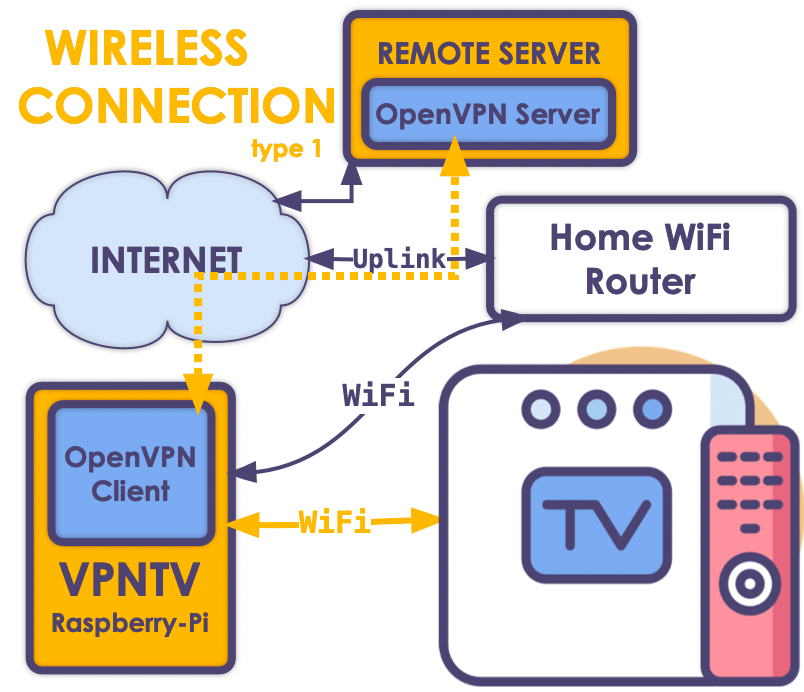
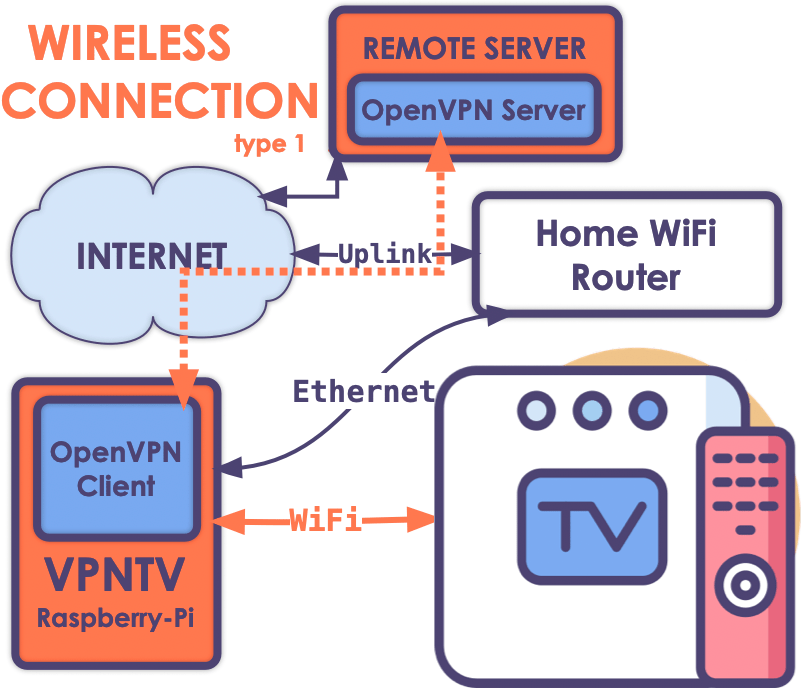
Wired connection types swap

diff --git a/README.md b/README.md
@@ -47,14 +47,15 @@ At the moment project supports Wireless connections(both types), Wired connectio
          </summary>
 
          * **ovpnclient_enable** - enable/disable OpenVPN client service. You need to have OpenVPN client configuration file in `client-ovpn` directory (see next installation step).
-  
+         
+         * **ethernet2wifi_enable** - enable/disable TV over WiFi connection, while VPNTV connected by Ethernet cable to your home Router. You need to configure here WiFi network name and password of new AP which will be up on vpntv. Prefferable setup. Can't be used with other connection options at the same time.
+
          * **wifi2wifi_enable** - enable/disable VT over WiFi connection. VPNTV connects to your home WiFi network and create new WiFi network for your TV. You need to configure here WiFi network name and password of new AP which will be up on vpntv. Used only if you have WiFi dongle connected to your Raspberry Pi. Can't be used with other connection options at the same time.
   
          * **wifi_mod_enable** - enable/disable custom WiFi modules installation. You need to enable it if your WiFi dongle does not support AP mode by Raspberry Pi OS by default. [Refer to the list](https://github.com/d3vilh/vpntv/tree/main/wifi-modules) of all supported WiFi dongles.
   
          * **wifi2ethernet_enable** - enable/disable TV over Ethernet connection. Used only if your TV has Ethernet cable connected to your Raspberry Pi. Can't be used with other connection options at the same time.
 
-         * **ethernet2wifi_enable** - enable/disable TV over WiFi connection, while VPNTV connected by Ethernet cable to your home Router. You need to configure here WiFi network name and password of new AP which will be up on vpntv. Can't be used with other connection options at the same time.
       </details>
 
          > **Note**: You can use only one connection option at the same time. Choose wisely and don't forget to disable (`false`) all other options.
